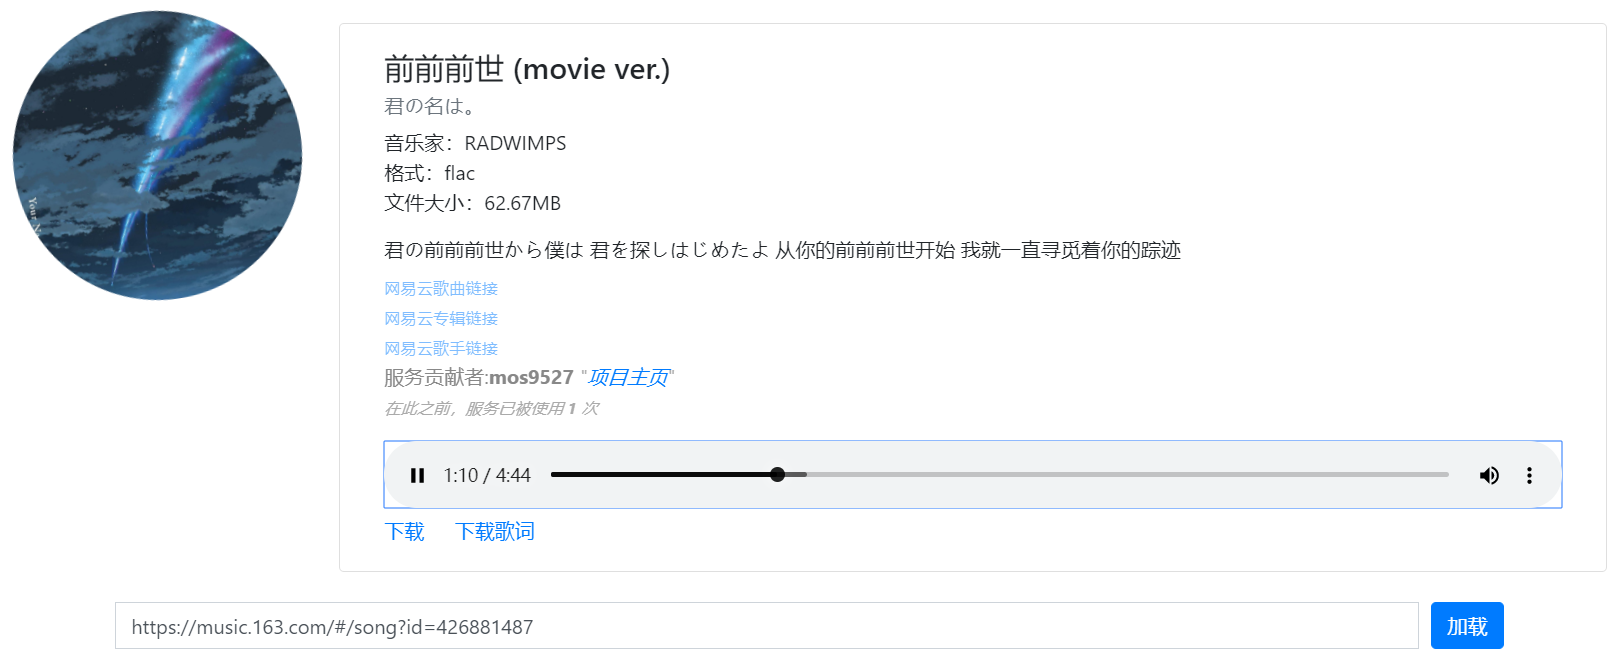
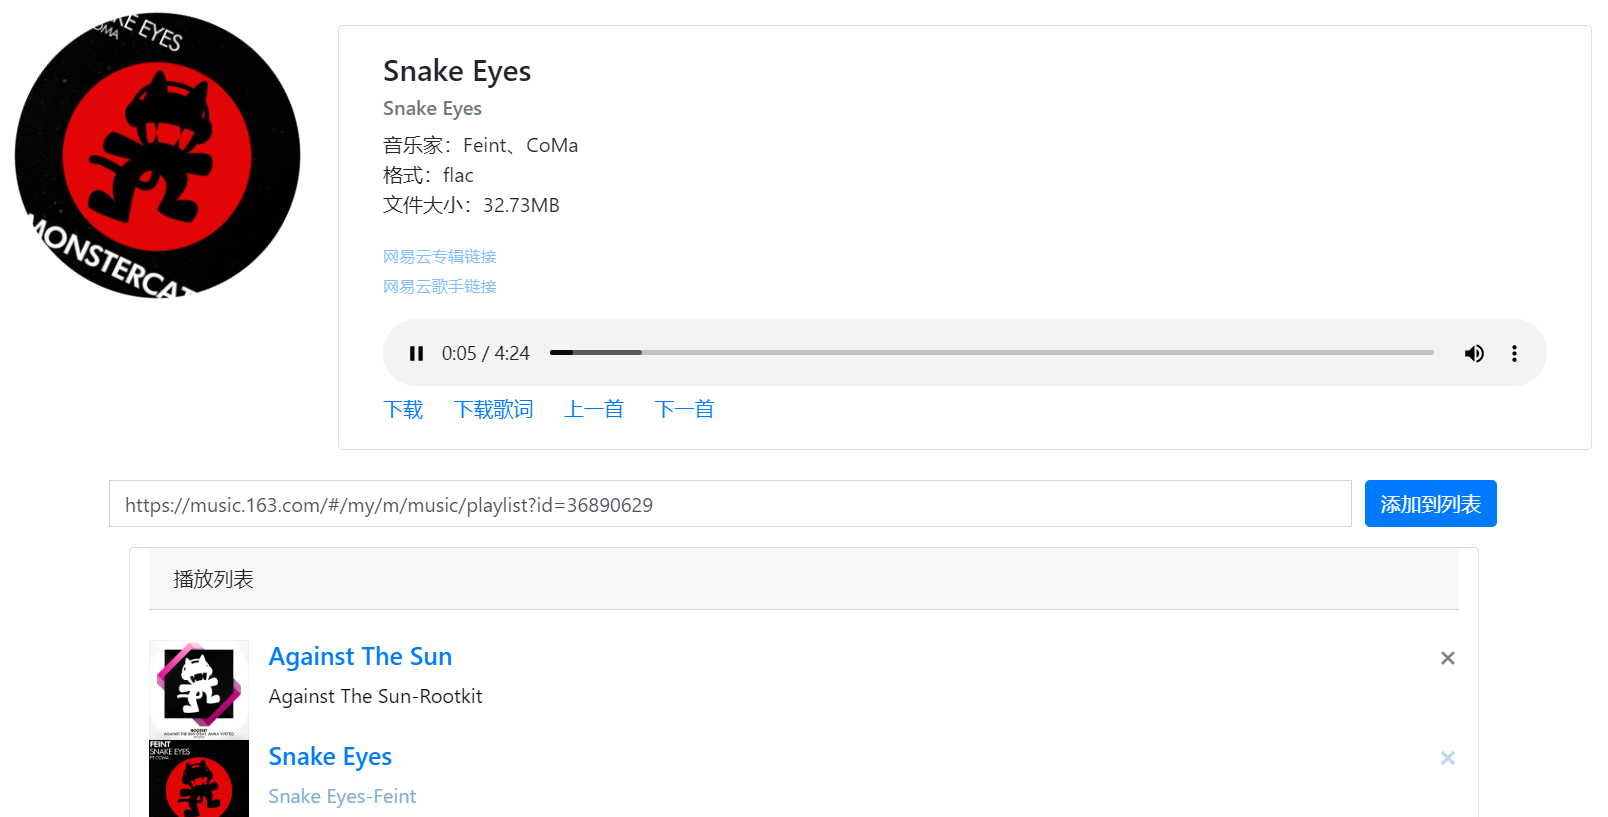
updated text & screenshot

diff --git a/index.html b/index.html
@@ -47,7 +47,7 @@
       <div class="input-group-prepend"> </div>
       <input type="text" class="form-control" id="shareinput" placeholder="输入网易云音乐分享链接" style="margin-right:10px "
         aria-describedby="basicaddon1">
-      <button type="button" class="btn btn-primary" id="action">加载</button>
+      <button type="button" class="btn btn-primary" id="action">添加到列表</button>
     </div>
     <div class="container">
 	  <div class="card col-md-4 col-lg-12">
